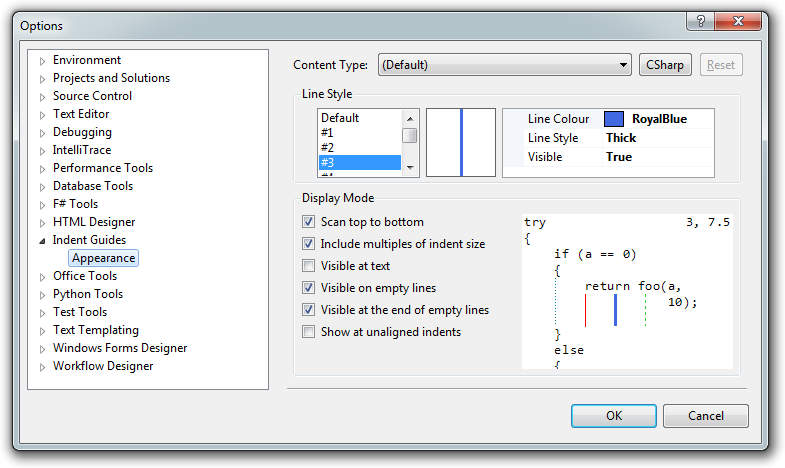
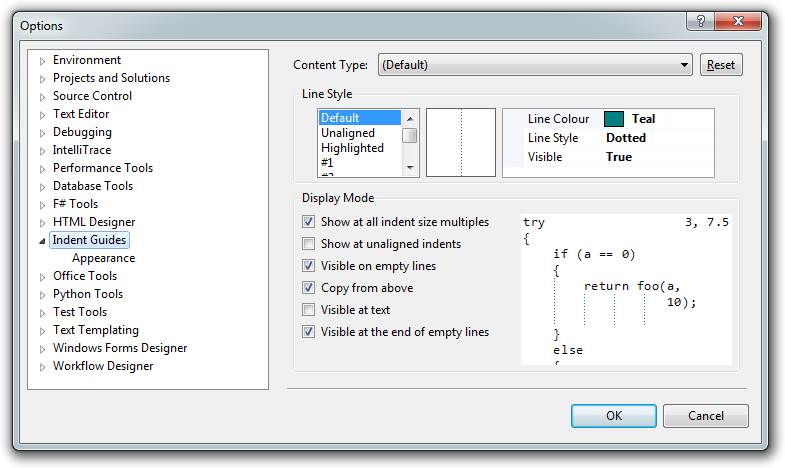
v11 (beta 3): Added settings upgrade. Fixed theme delete/reset button. Updated screenshots.

diff --git a/IndentGuideService.cs b/IndentGuideService.cs
@@ -90,7 +90,19 @@ namespace IndentGuide
         {
             _Package = package;
             _Themes = new Dictionary<string, IndentTheme>();
-            Upgrade();
+            try
+            {
+                Upgrade();
+            }
+            catch (Exception ex)
+            {
+#if DEBUG
+                Debug.Assert(false);
+#endif
+                Trace.WriteLine("Error upgrading previous settings.");
+                Trace.WriteLine(" - " + ex.ToString());
+                Reset();
+            }
             Load();
         }
 
@@ -308,14 +320,121 @@ namespace IndentGuide
             {
                 int version;
                 using (var reg = root.OpenSubKey(SUBKEY_NAME, false))
-                    version = (int)reg.GetValue("Version", DEFAULT_VERSION);
+                    version = (reg == null) ? 0 : (int)reg.GetValue("Version", DEFAULT_VERSION);
 
                 // v11 (beta 2) (10.9.1) and later don't require an upgrade
                 if (version >= 0x000A0901)
                     return;
 
-                // TODO: Proper upgrade
-                root.DeleteSubKeyTree(SUBKEY_NAME, false);
+                bool writeDefaults = true;
+                // v9 and later can be upgraded.
+                if (version == DEFAULT_VERSION)
+                {
+                    using (var reg = root.CreateSubKey(SUBKEY_NAME))
+                    {
+                        foreach (var keyName in reg.GetSubKeyNames())
+                        {
+                            if (keyName != IndentTheme.DefaultThemeName)
+                                writeDefaults = false;
+
+                            using (var key = reg.OpenSubKey(keyName))
+                            {
+                                if (key == null) continue;
+                                var name = key.GetValue("Name") as string;
+                                if (string.IsNullOrEmpty(name)) continue;
+
+                                using (var newKey = reg.CreateSubKey(name))
+                                {
+                                    newKey.SetValue("VisibleAligned", 1);
+                                    newKey.SetValue("VisibleUnaligned", 0);
+
+                                    // Upgrade the old EmptyLineMode enumeration
+                                    var elm = key.GetValue("EmptyLineMode") as string ?? "SameAsAboveLogical";
+                                    switch (elm)
+                                    {
+                                        case "NoGuides":
+                                            newKey.SetValue("TopToBottom", 1);
+                                            newKey.SetValue("VisibleEmpty", 0);
+                                            newKey.SetValue("VisibleEmptyAtEnd", 0);
+                                            break;
+                                        case "SameAsLineAboveActual":
+                                            newKey.SetValue("TopToBottom", 1);
+                                            newKey.SetValue("VisibleEmpty", 1);
+                                            newKey.SetValue("VisibleEmptyAtEnd", 0);
+                                            break;
+                                        case "SameAsLineAboveLogical":
+                                            newKey.SetValue("TopToBottom", 1);
+                                            newKey.SetValue("VisibleEmpty", 1);
+                                            newKey.SetValue("VisibleEmptyAtEnd", 1);
+                                            break;
+                                        case "SameAsLineBelowActual":
+                                            newKey.SetValue("TopToBottom", 0);
+                                            newKey.SetValue("VisibleEmpty", 1);
+                                            newKey.SetValue("VisibleEmptyAtEnd", 0);
+                                            break;
+                                        case "SameAsLineBelowLogical":
+                                            newKey.SetValue("TopToBottom", 0);
+                                            newKey.SetValue("VisibleEmpty", 1);
+                                            newKey.SetValue("VisibleEmptyAtEnd", 1);
+                                            break;
+                                    }
+
+                                    // Upgrade the old VisibleAtText setting (default to false)
+                                    var ate = string.Equals("True", key.GetValue("VisibleAtText") as string, StringComparison.InvariantCultureIgnoreCase);
+                                    newKey.SetValue("VisibleAtTextEnd", ate ? 1 : 0);
+
+                                    // Copy the default color/style to Default, Unaligned and Caret themes.
+                                    // Change the Caret theme color to Red, or Teal if it was already red.
+                                    using (var subKey1 = newKey.CreateSubKey(IndentTheme.FormatIndexToString(IndentTheme.DefaultFormatIndex)))
+                                    using (var subKey2 = newKey.CreateSubKey(IndentTheme.FormatIndexToString(IndentTheme.UnalignedFormatIndex)))
+                                    using (var subKey3 = newKey.CreateSubKey(IndentTheme.FormatIndexToString(IndentTheme.CaretFormatIndex)))
+                                    {
+                                        var visible = !string.Equals("False", key.GetValue("Visible") as string, StringComparison.InvariantCultureIgnoreCase);
+                                        var color = key.GetValue("LineColor") as string ?? "Teal";
+                                        var style = key.GetValue("LineStyle") as string ?? "Dotted";
+                                        subKey1.SetValue("Visible", visible ? 1 : 0);
+                                        subKey2.SetValue("Visible", visible ? 1 : 0);
+                                        subKey3.SetValue("Visible", visible ? 1 : 0);
+                                        subKey1.SetValue("LineColor", color);
+                                        subKey2.SetValue("LineColor", color);
+                                        subKey3.SetValue("LineColor", (color == "Red") ? "Teal" : "Red");
+                                        subKey1.SetValue("LineStyle", style);
+                                        subKey2.SetValue("LineStyle", style);
+                                        subKey3.SetValue("LineStyle", style);
+                                    }
+
+                                    // Copy the existing indent overrides.
+                                    foreach (var subkeyName in key.GetSubKeyNames())
+                                    {
+                                        int formatIndex;
+                                        if (!int.TryParse(subkeyName, out formatIndex))
+                                            continue;
+
+                                        using (var subKey1 = key.OpenSubKey(subkeyName))
+                                        using (var subKey2 = newKey.CreateSubKey(subkeyName))
+                                        {
+                                            var visible = !string.Equals("False", subKey1.GetValue("Visible") as string, StringComparison.InvariantCultureIgnoreCase);
+                                            var color = subKey1.GetValue("LineColor") as string ?? "Teal";
+                                            var style = subKey1.GetValue("LineStyle") as string ?? "Dotted";
+                                            subKey2.SetValue("Visible", visible ? 1 : 0);
+                                            subKey2.SetValue("LineColor", color);
+                                            subKey2.SetValue("LineStyle", style);
+                                        }
+                                    }
+                                }
+                            }
+
+                            reg.DeleteSubKeyTree(keyName);
+                        }
+                    }
+                }
+
+                if (writeDefaults)
+                {
+                    // TODO: Add default settings and themes.
+                    //using (var reg = root.CreateSubKey(SUBKEY_NAME))
+                    //{ }
+                }
             }
         }
     }

diff --git a/ThemeOptionsControl.cs b/ThemeOptionsControl.cs
@@ -72,9 +72,7 @@ namespace IndentGuide
 
                         ActiveTheme = Service.DefaultTheme.Clone();
                         LocalThemes.Add(ActiveTheme);
-                        LocalThemes.AddRange(Service.Themes.Values
-                            .Select(t => t.Clone())
-                            .OrderBy(t => t.ContentType));
+                        LocalThemes.AddRange(Service.Themes.Values.Select(t => t.Clone()));
                         UpdateThemeList();
                     }
                     catch (Exception ex)
@@ -213,6 +211,7 @@ namespace IndentGuide
         {
             try
             {
+                LocalThemes.Sort();
                 cmbTheme.Items.Clear();
                 foreach (var theme in LocalThemes)
                 {
@@ -220,8 +219,9 @@ namespace IndentGuide
                 }
 
                 cmbTheme.SelectedItem = ActiveTheme;
-                
-                btnThemeDelete.Enabled = false;
+
+                btnThemeDelete.Enabled = (ActiveTheme != null);
+                btnThemeDelete.Text = ResourceLoader.LoadString(ActiveTheme.IsDefault ? "btnThemeReset" : "btnThemeDelete");
             }
             catch (Exception ex)
             {
@@ -285,24 +285,37 @@ namespace IndentGuide
         {
             ActiveTheme = cmbTheme.SelectedItem as IndentTheme;
 
-            btnThemeDelete.Enabled = (ActiveTheme != null) && !ActiveTheme.IsDefault;
+            btnThemeDelete.Enabled = (ActiveTheme != null);
+            btnThemeDelete.Text = ResourceLoader.LoadString(ActiveTheme.IsDefault ? "btnThemeReset" : "btnThemeDelete");
 
             UpdateDisplay();
         }
 
         private void btnThemeDelete_Click(object sender, EventArgs e)
         {
-            if (ActiveTheme == null || ActiveTheme.IsDefault) return;
+            if (ActiveTheme == null) return;
 
             try
             {
-                DeletedThemes.Add(ActiveTheme);
-                LocalThemes.Remove(ActiveTheme);
+                if (ActiveTheme.IsDefault)
+                {
+                    ChangedThemes.RemoveAll(theme => theme.IsDefault);
+                    LocalThemes.Remove(ActiveTheme);
+                    ActiveTheme = new IndentTheme();
+                    LocalThemes.Add(ActiveTheme);
+                    ChangedThemes.Add(ActiveTheme);
+                    UpdateThemeList();
+                }
+                else
+                {
+                    DeletedThemes.Add(ActiveTheme);
+                    LocalThemes.Remove(ActiveTheme);
 
-                int i = cmbTheme.SelectedIndex;
-                cmbTheme.Items.Remove(ActiveTheme);
-                if (i < cmbTheme.Items.Count) cmbTheme.SelectedIndex = i;
-                else cmbTheme.SelectedIndex = cmbTheme.Items.Count - 1;
+                    int i = cmbTheme.SelectedIndex;
+                    cmbTheme.Items.Remove(ActiveTheme);
+                    if (i < cmbTheme.Items.Count) cmbTheme.SelectedIndex = i;
+                    else cmbTheme.SelectedIndex = cmbTheme.Items.Count - 1;
+                }
             }
             catch (Exception ex)
             {

diff --git a/DocumentAnalyzer.cs b/DocumentAnalyzer.cs
@@ -178,9 +178,12 @@ namespace IndentGuide
 
         public bool Update()
         {
-            // HACK: Removed incremental updates for now
-            Reset();
-            return true;
+            if (Snapshot != Snapshot.TextBuffer.CurrentSnapshot)
+            {
+                Reset();
+                return true;
+            }
+            return false;
         }
     }
 }
